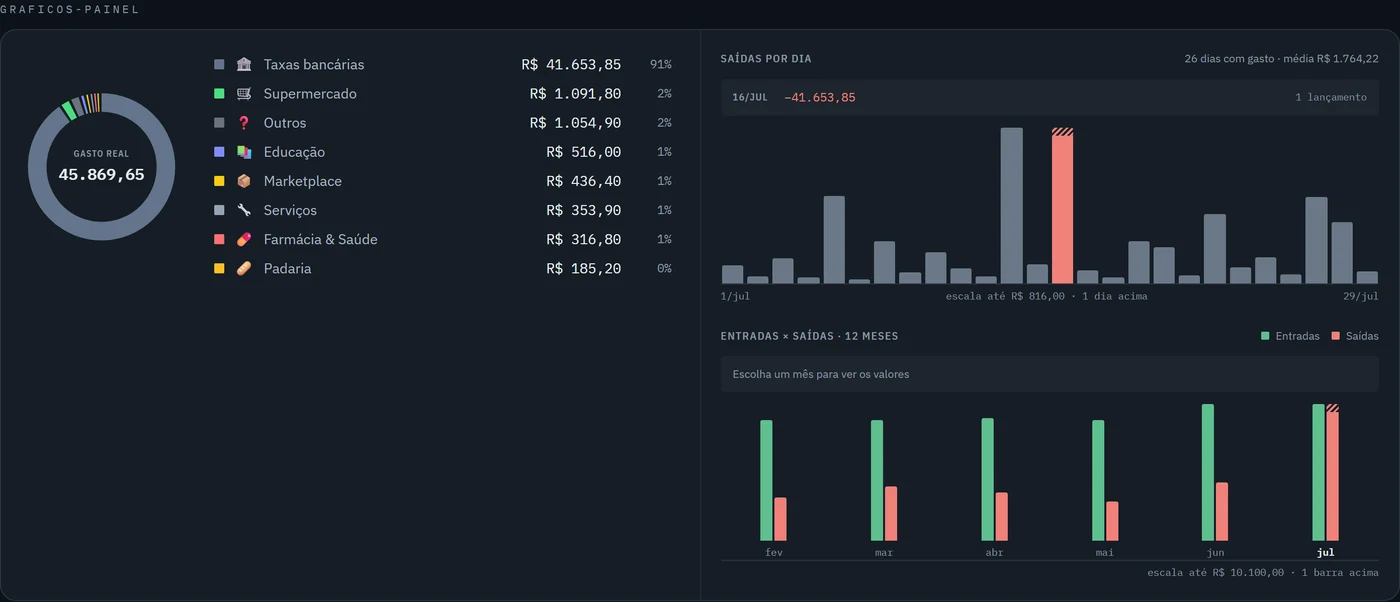
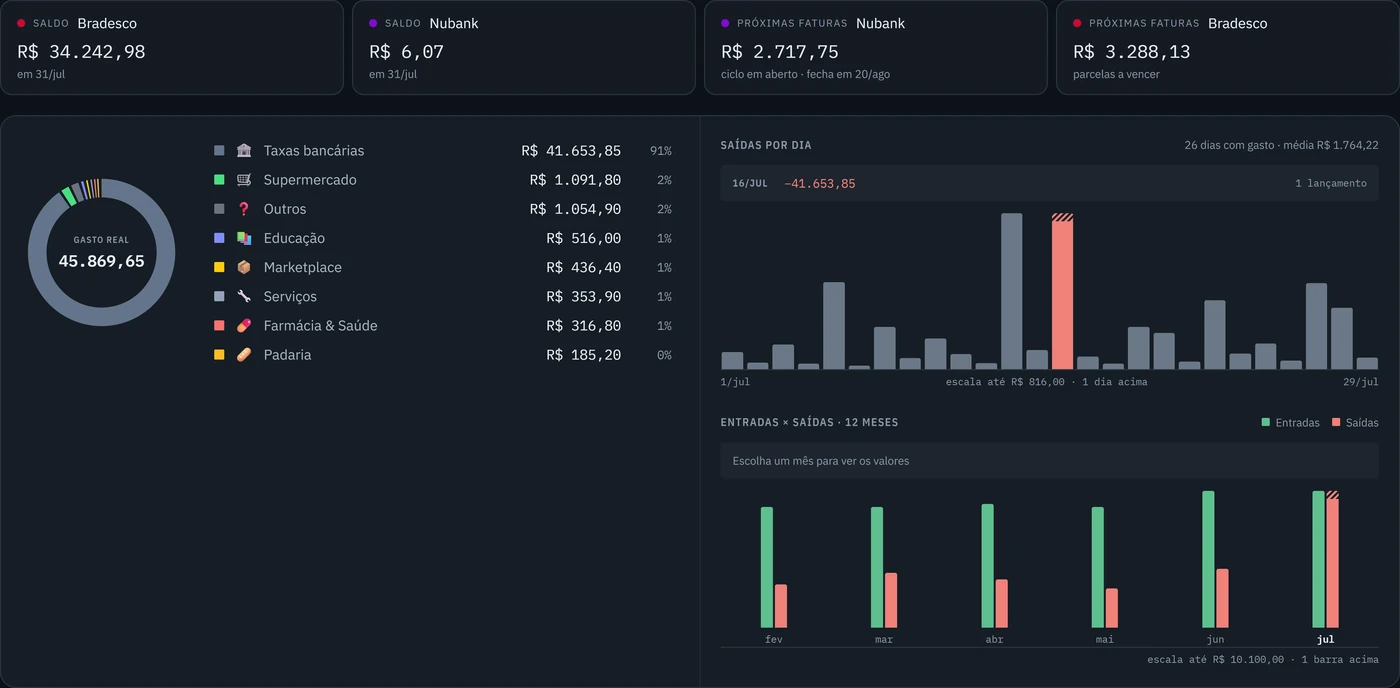
fix(projetos): Praça Araguaia mostra a aba do dia, Capital mostra o painel
O print da Praça Araguaia era a home de notícias; passa a ser "A praça
hoje", com a aba ativa na barra e as cotações por praça começando logo
abaixo — é essa tela que o caso descreve.

O do Capital Financeiro mostrava só o bloco de gráficos. Agora é o painel:
saldos das contas e faturas em aberto acima dos gráficos, montado a partir
da folha de provas do próprio repositório, que existe justamente para
gerar print público sem expor extrato de ninguém.

diff --git a/content/case-studies.ts b/content/case-studies.ts
@@ -82,7 +82,7 @@ export const caseStudies: readonly CaseStudy[] = [
     repo: 'https://github.com/cielioqueiroz/controle-financeiro',
     demo: 'https://capital-financeiro.vercel.app',
     stack: ['React 19', 'TypeScript', 'Vite', 'Neon', 'PostgreSQL', 'Tailwind CSS'],
-    shot: { src: '/projetos/controle-financeiro.webp', width: 1400, height: 602 },
+    shot: { src: '/projetos/controle-financeiro.webp', width: 1400, height: 688 },
     name: {
       pt: 'Capital Financeiro',
       en: 'Capital Financeiro',
